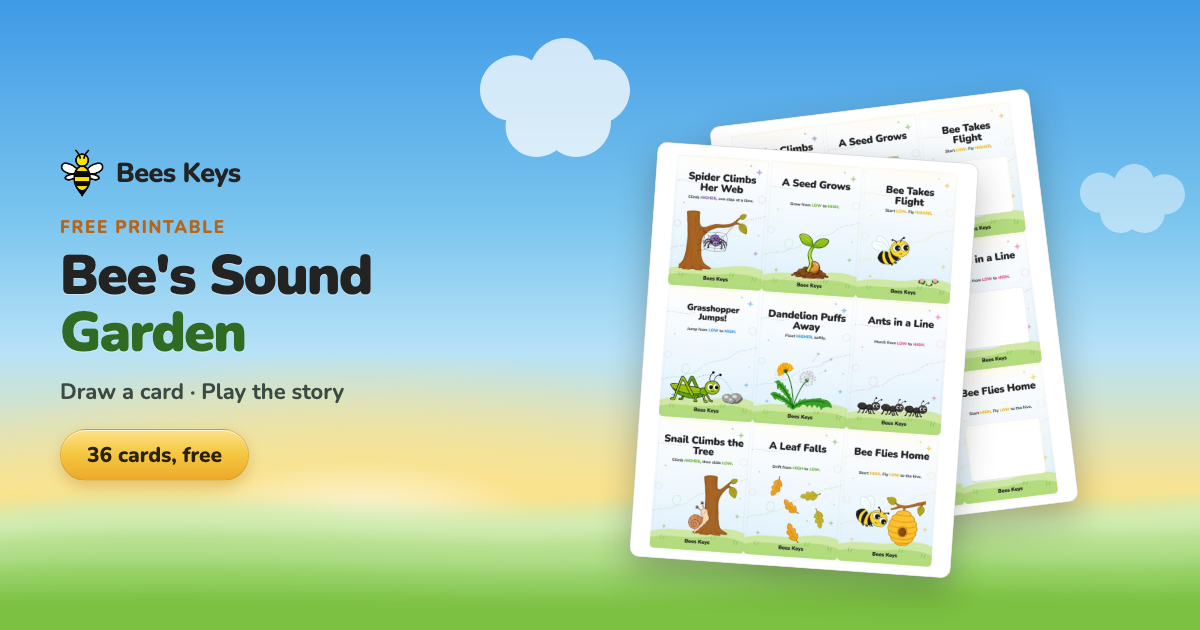
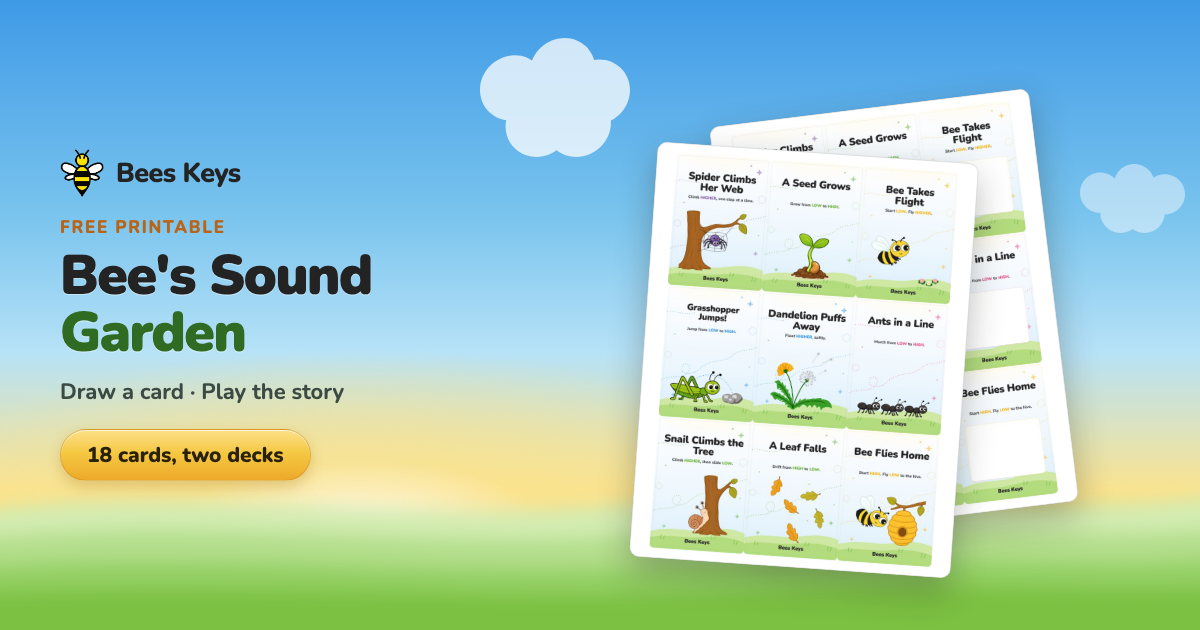
Count the Sound Garden deck as 18 cards, two decks
"36 cards" is literally true but reads as 36 different prompts. There are
eighteen, printed twice.

Changed region(s): [[0.1542, 0.6635, 0.2775, 0.7841], [0.0617, 0.6937, 0.0925, 0.7238]]

diff --git a/tools/og-card-sound-garden-adventure-cards.html b/tools/og-card-sound-garden-adventure-cards.html
@@ -150,7 +150,7 @@
       <p class="eyebrow">Free printable</p>
       <h1>Bee's Sound<br /><em>Garden</em></h1>
       <p class="sub">Draw a card · Play the story</p>
-      <span class="free">36 cards, free</span>
+      <span class="free">18 cards, two decks</span>
     </div>
 
     <div class="stack">

diff --git a/resources.html b/resources.html
@@ -101,7 +101,7 @@
             <h2>Bee's Sound Garden</h2>
 
             <ul class="res-meta">
-              <li>36 cards</li>
+              <li>18 cards, two decks</li>
               <li>11-page PDF</li>
               <li>US Letter</li>
             </ul>
